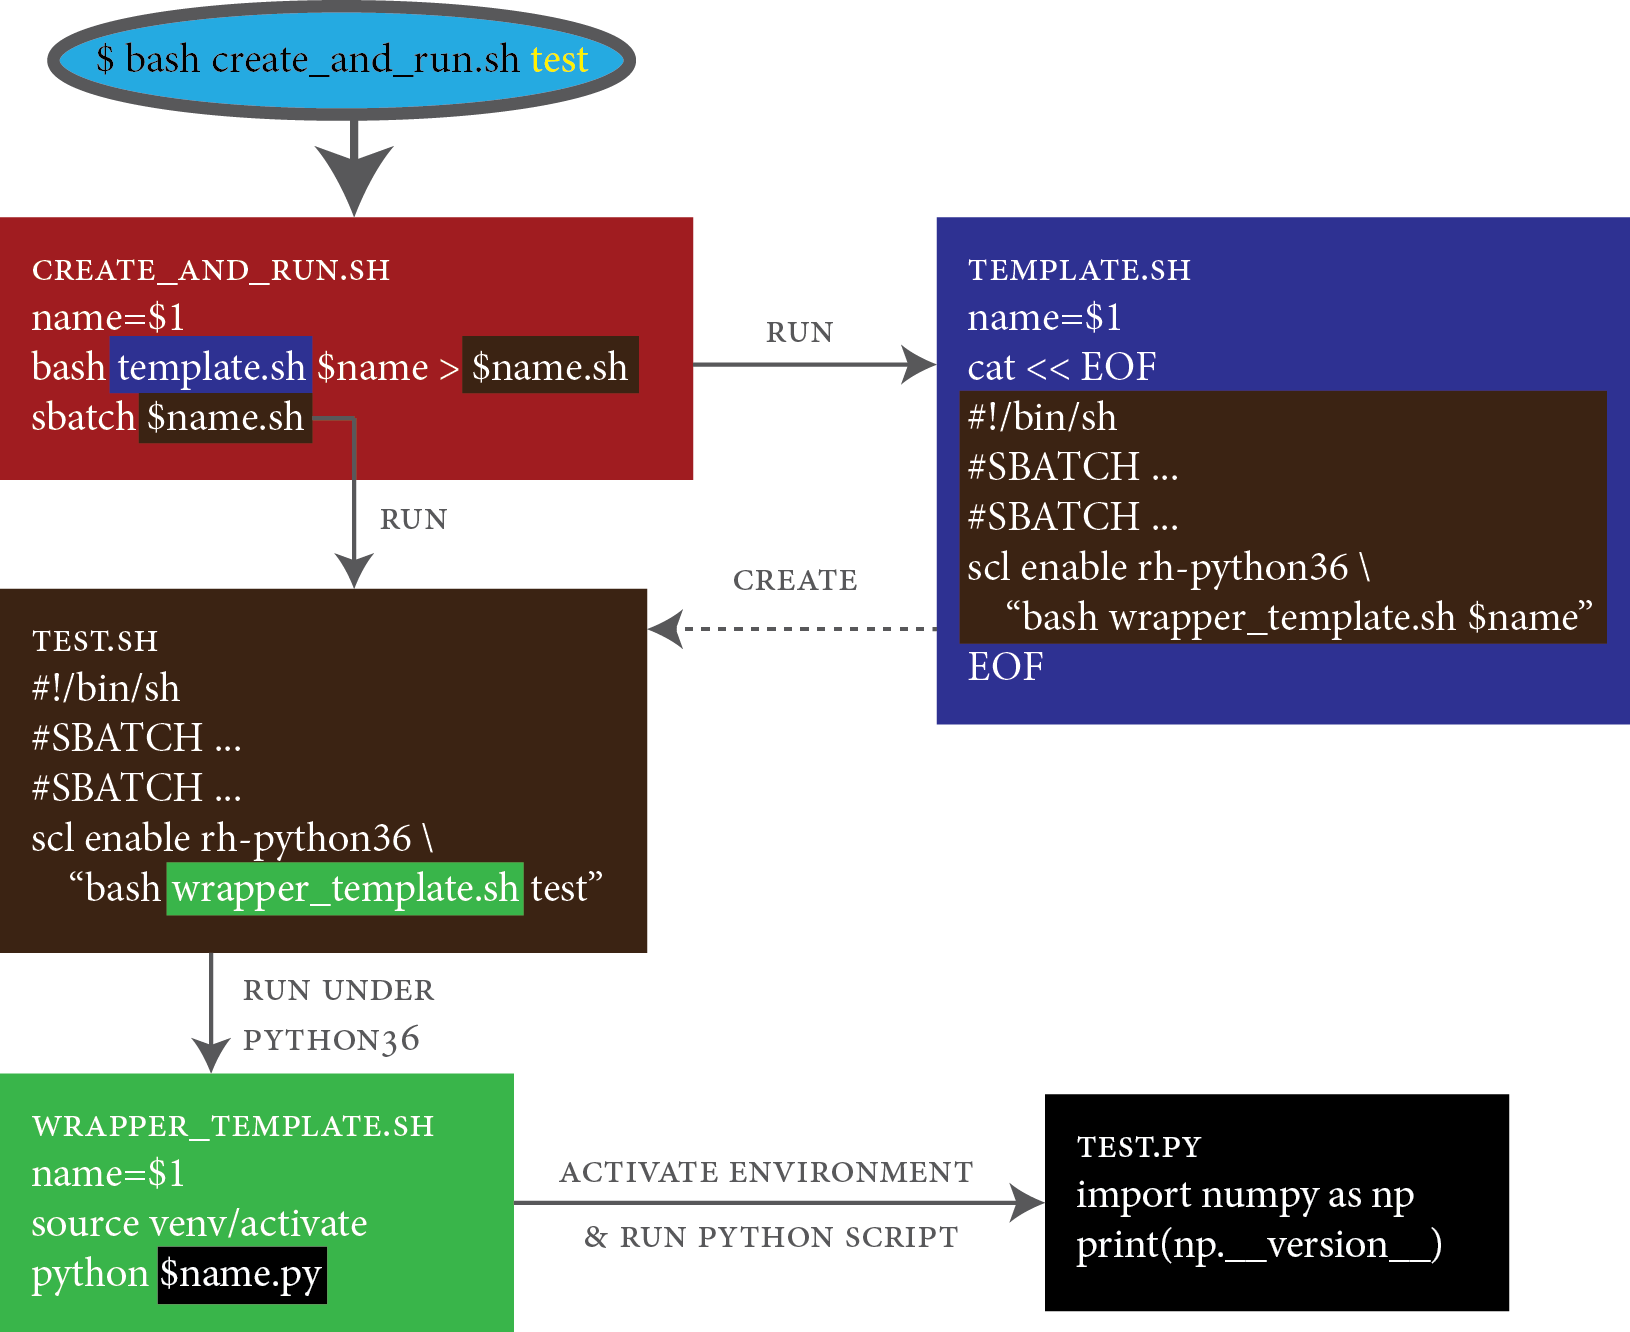
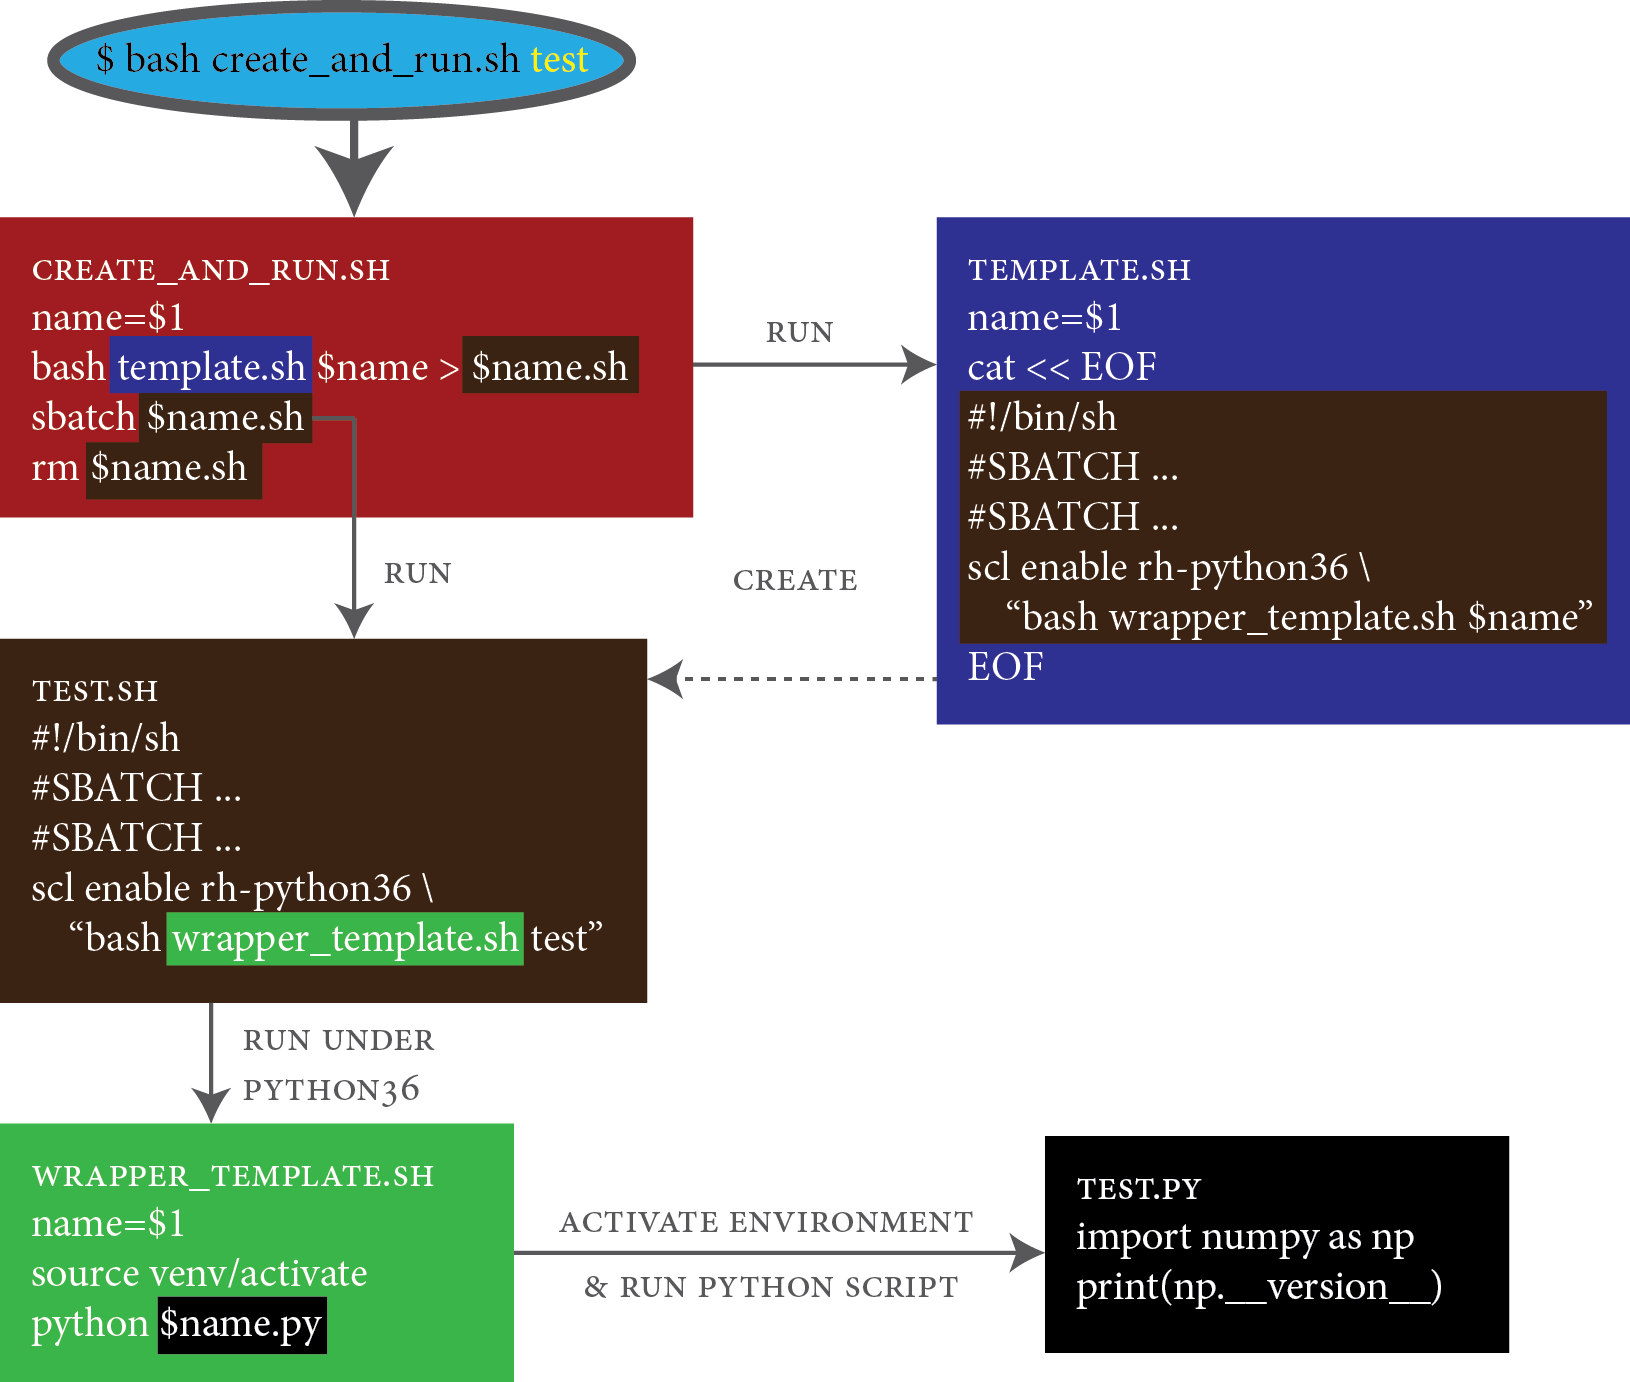
Finish documentation

diff --git a/README.md b/README.md
@@ -1,3 +1,34 @@
-# Slurm - A Quick Solution
+# Slurm - A Quick Solution for Python with Virtual Envs
 
 ![](20200605_slurm_easy.png)
+
+This is a quick solution for running `sbatch` on Python scripts that are assumed to run on virtual environments.
+
+## Instructions
+
+1. If not done yet, create your Python virtual environment at `/path/to/env/`, where it should have a file `/path/to/env/bin/activate` file
+1. Make sure that you have the following scripts on the same directory of your Python script
+1. Edit `template.sh` to ensure your `#SBATCH` options are custom to you
+1. Edit your `wrapper_template.sh` script such that it sources the `activate` file in your environment location
+    - E.g. `source /path/to/env/bin/activate`
+1. (Optional) The `create_and_run.sh` script is set to remove the sbatch script (`rm $name.sh`). If you do not wish to remove it after releasing the submitting the job, comment that line
+1. Run the `create_and_rush.sh` with the name (without extension) of the Python file as an argument. It only takes a single argument and uses it to create shell script and runs it 
+
+```shell
+$ bash create_and_run.sh test # to run test.py
+```
+
+You may also write a function and write it on your `~/.bashrc` (or `~/.zshrc`, or whatever shell you use) file 
+
+```shell
+# ~/.bashrc
+function create_and_run(){
+    bash template.sh $1 > $1.sh
+    sbatch $1.sh
+}
+```
+
+And (after sourcing your `~/.bashrc`), you may simply run
+```shell
+$ create_and_run test
+```
